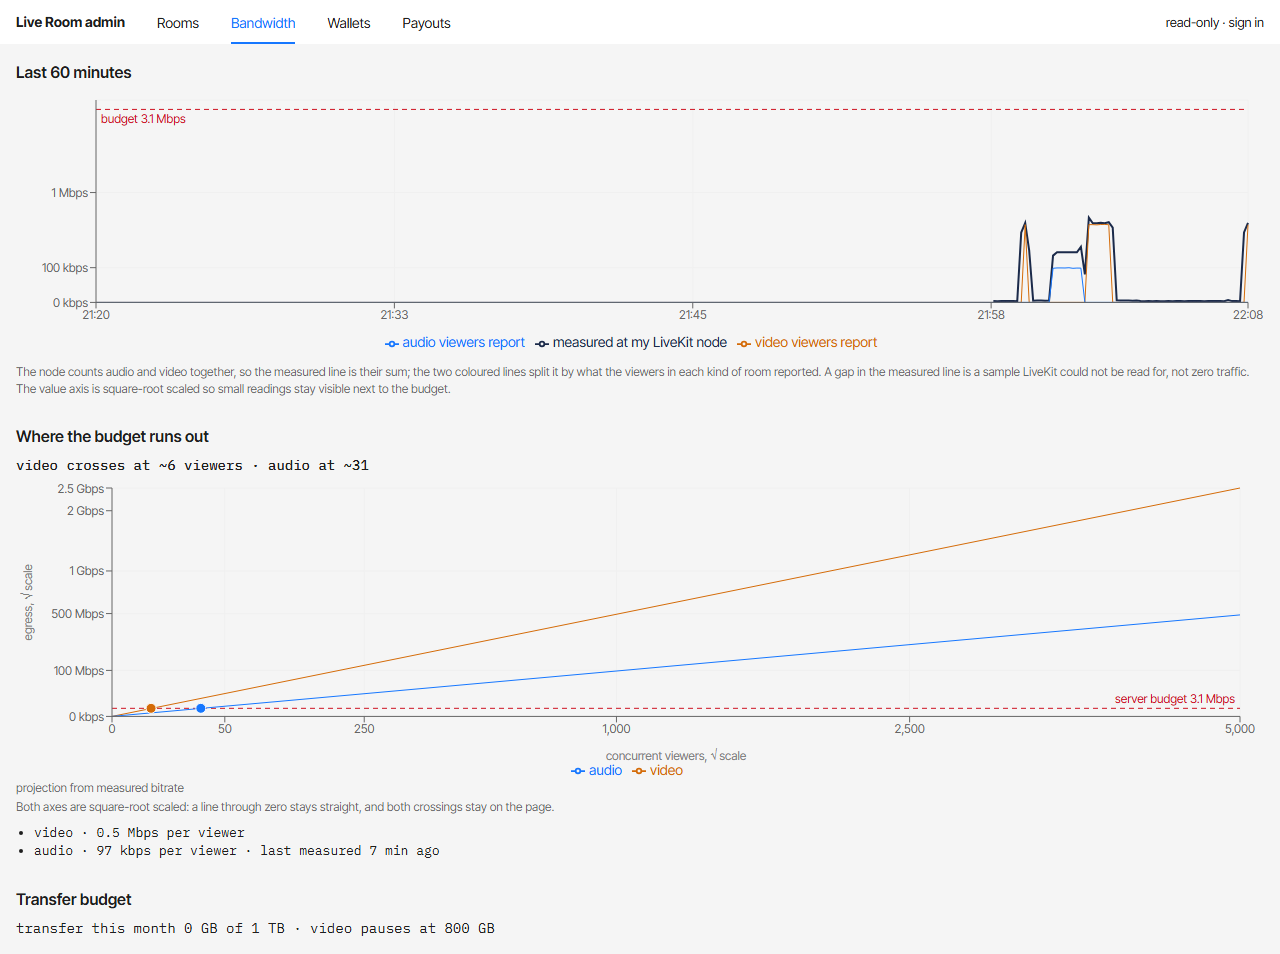
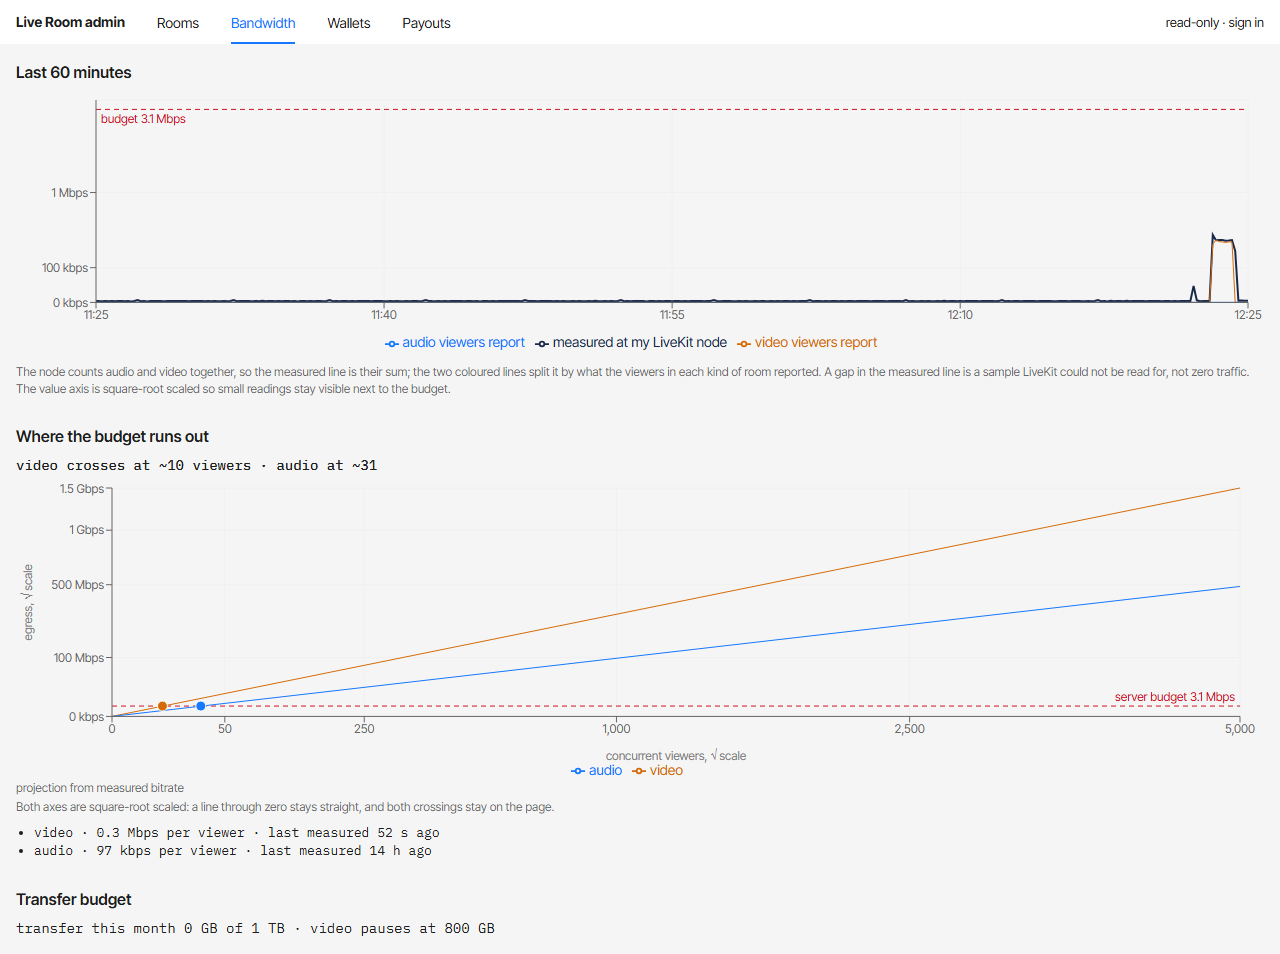
re-measure video on the live canvas: 302 kbps a viewer, about 10 viewers a month

diff --git a/README.md b/README.md
@@ -19,14 +19,14 @@ In the streaming apps I build at work, video moved off the self-hosted node beca
 
 ## Measured on the live deploy
 
-Read from `/bandwidth` on 8 Nov 2026, one viewer in each room, `BUDGET_TB_MONTH=1` (3.09 Mbps sustained):
+Read from `/bandwidth` with one viewer in the room, `BUDGET_TB_MONTH=1` (3.09 Mbps sustained). Video on 9 Nov 2026 with the live canvas, audio on 8 Nov:
 
 | | per viewer, reported | LiveKit node, measured | crosses a 1 TB month at |
 | --- | --- | --- | --- |
-| video, 640x360 at 15 fps | 501 kbps | 520 kbps | about 6 viewers watching all month |
+| video, 640x360 at 15 fps | 302 kbps | 318 kbps | about 10 viewers watching all month |
 | audio | 98 kbps | 208 kbps | about 31 listeners all month |
 
-For video the node's own counter and the viewer's report agree within 4%. For audio alone the node sent about twice what the listener reported; I have not traced that difference yet. The crossings use the reported rate, which is what the projection is drawn from.
+The generated test card the video room used before cost 501 kbps per viewer (about 6 viewers a month); the canvas is mostly flat colour, so it encodes smaller. For video the node's own counter and the viewer's report agree within 5%. For audio alone the node sent about twice what the listener reported; I have not traced that difference yet. The crossings use the reported rate, which is what the projection is drawn from.
 
 ![Admin bandwidth page: the last hour of traffic against the budget line, and where video and audio each cross it](docs/admin-bandwidth.png)
 
